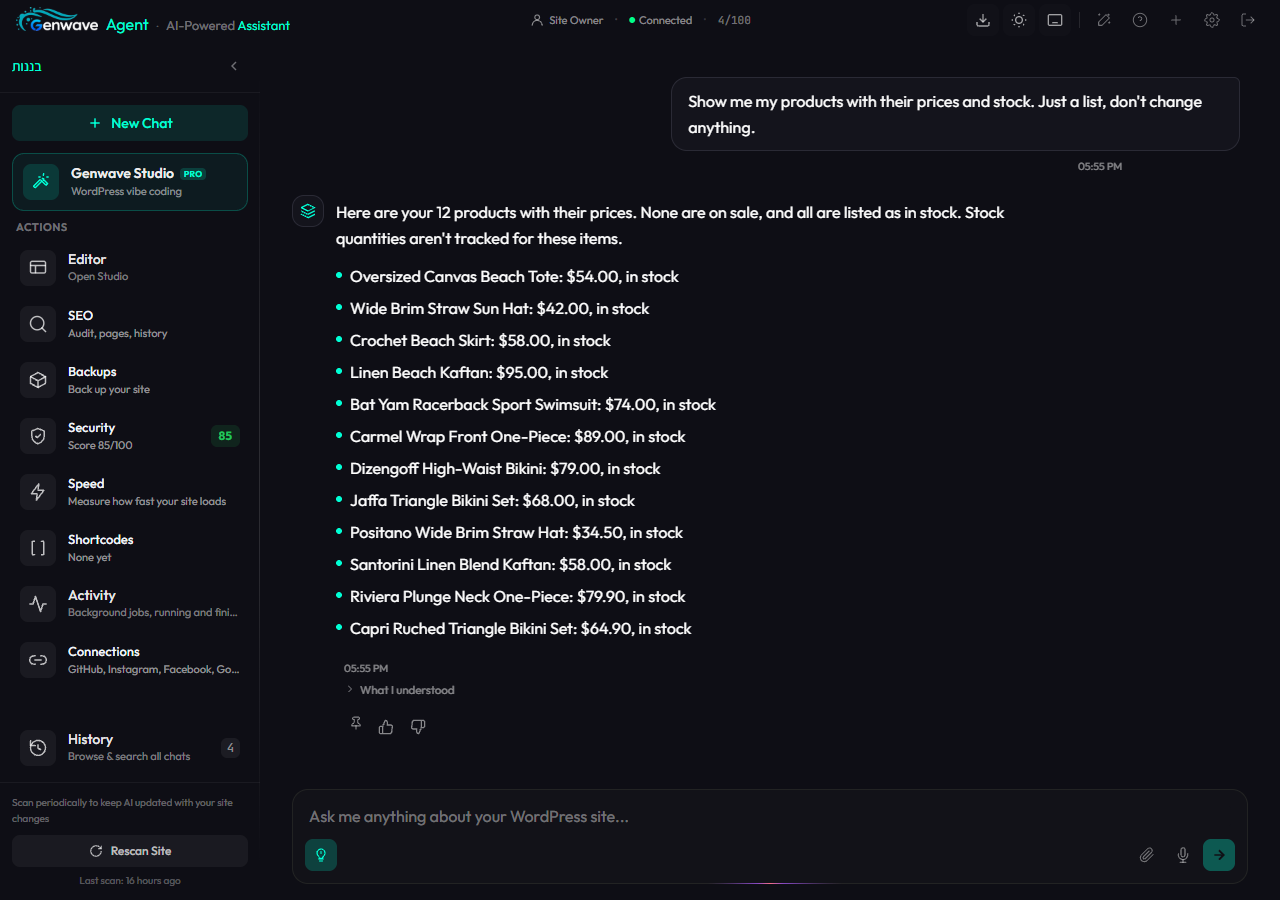
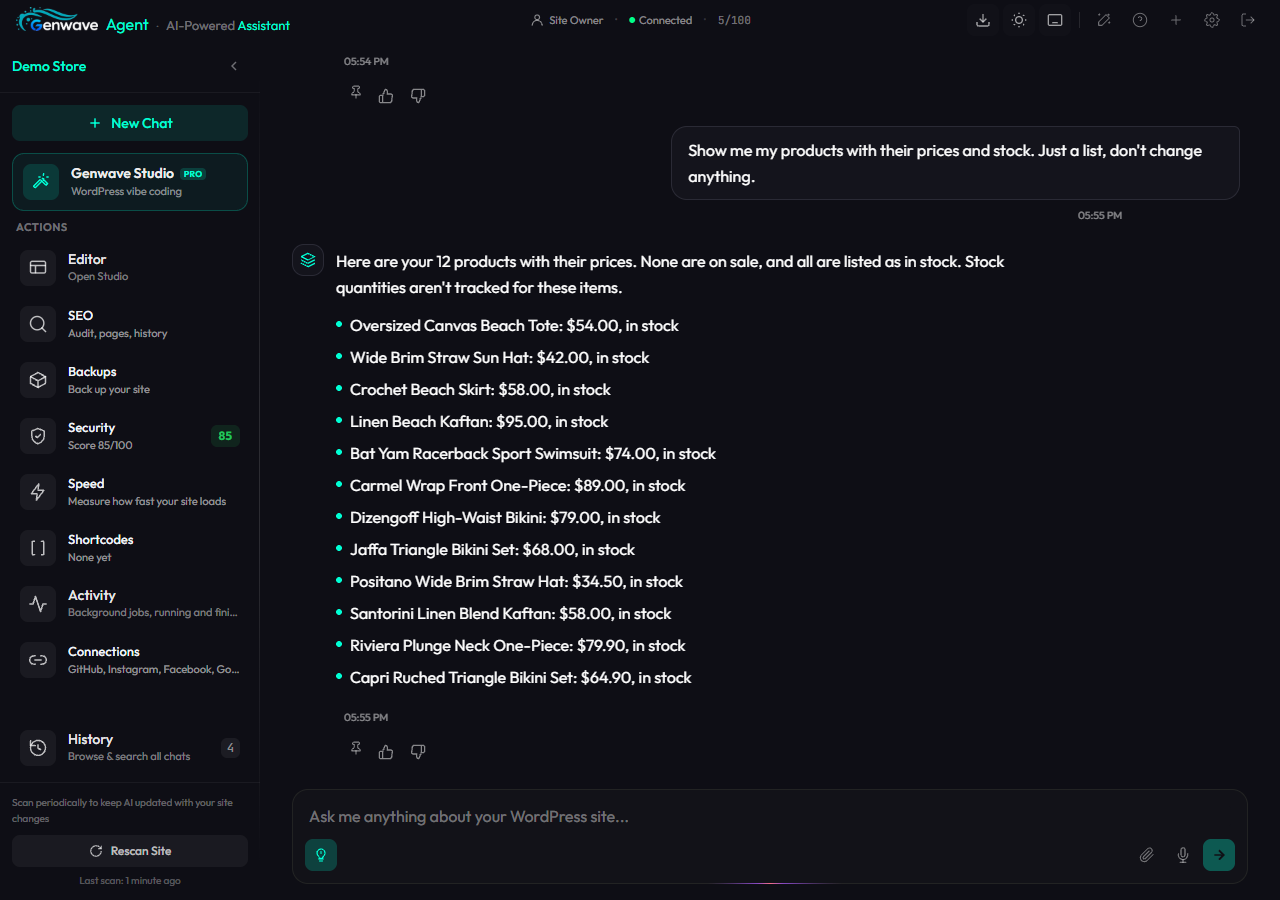
Screenshots 1, 2 and 5 retaken with a generic site name (Demo Store)

diff --git a/CHANGELOG.md b/CHANGELOG.md
@@ -87,7 +87,8 @@ changelog for WordPress.org lives in `readme.txt` and is written at release time
   `.wordpress-org/` (banners, icons and the current screenshots copied from
   SVN so the deploy's asset sync deletes nothing).
 - New screenshots 1-5 in English (1280x900, taken on a hosted test site
-  running this build with the admin temporarily in English): Account, Overview,
+  running this build with the admin temporarily in English and the site titled
+  "Demo Store"): Account, Overview,
   AI writing with a generated description (not saved), Genwave plugins, and
   Genwave Agent answering a read-only question about the store. The license
   key on the Account screen is masked. Captions 1, 3 and 5 updated; caption 5
